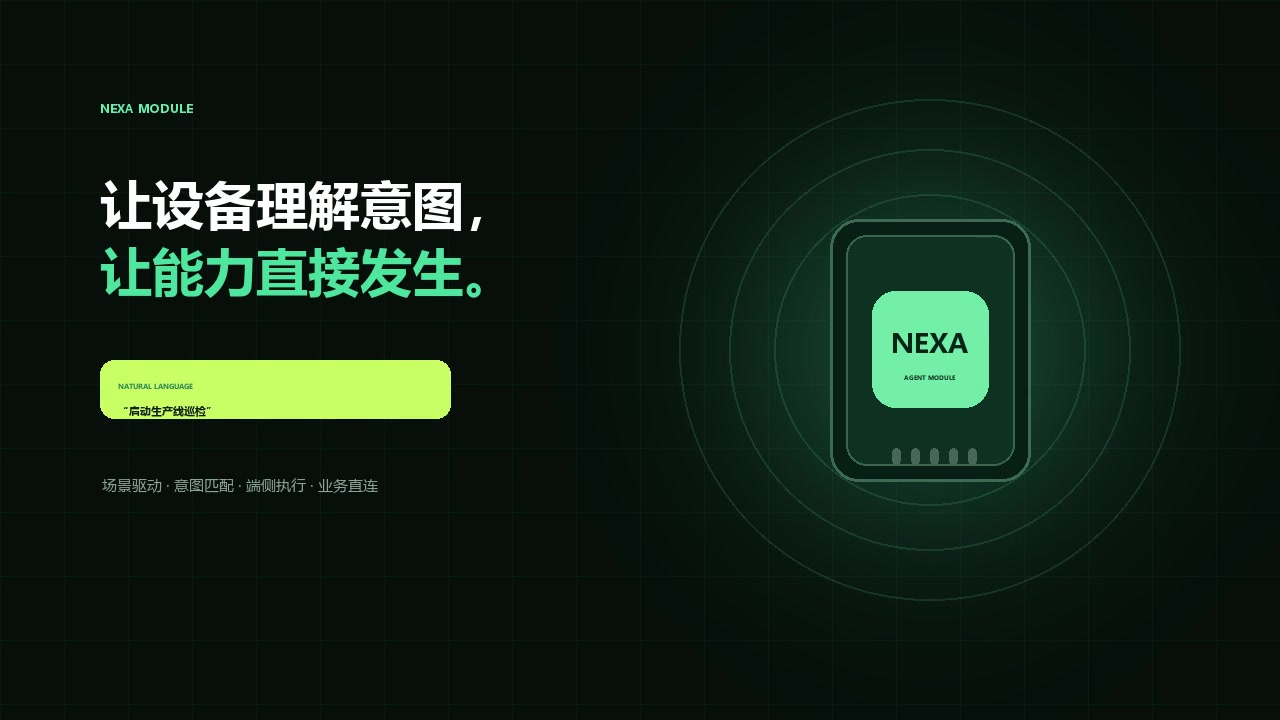
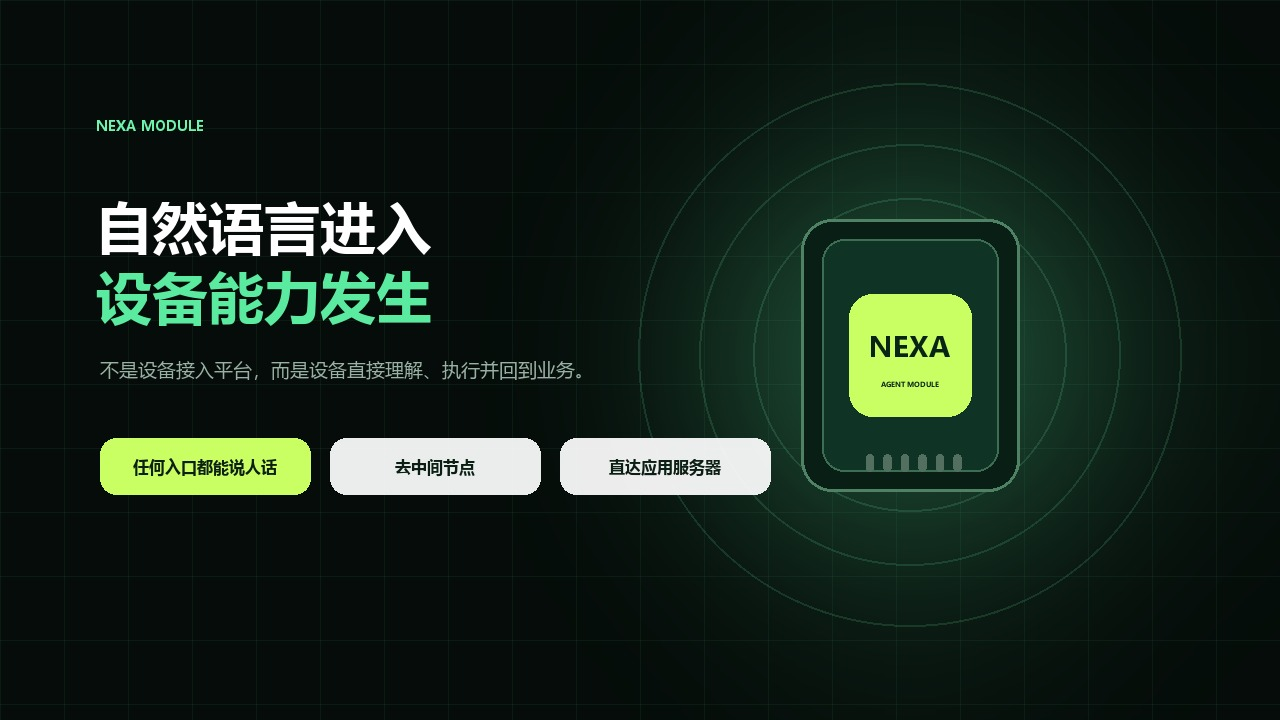
Refresh Nexa premium MG product video

Changed region(s): [[0.0625, 0.275, 0.8125, 0.7028], [0.0625, 0.2444, 0.375, 0.4583], [0.0625, 0.1222, 0.1562, 0.1833]]

diff --git a/index.html b/index.html
@@ -8,7 +8,7 @@
 <section class="section demo-wrap" id="demo"><div><div class="kicker">NEXA INTENT FLOW</div><h2>输入一句话，看看设备如何理解并行动。</h2><p class="lead">不管指令来自哪里，设备都走同一条体验链路：接收自然语言、由 Nexa Module 完成意图理解与动作判断，再把结果直接反馈给业务应用。</p><div class="suggestions"><button data-scenario="fan" data-source="远程应用服务器" data-prompt="把 2 号风机打开 15 分钟">远程控制</button><button data-scenario="serial" data-source="UART 串口" data-prompt="GPIO 12 拉高 10 秒后恢复">串口输入</button><button data-scenario="voice" data-source="语音转文字" data-prompt="温度超过 30 度就开启喷淋">语音场景</button></div></div><div class="console"><div class="console-bar"><span>● ● ●</span><b>NEXA / INTENT TRACE</b><em>TCP CONNECTED</em></div><div class="chat"><label for="prompt">自然语言输入 <em id="source">远程应用服务器</em></label><div class="prompt-row"><input id="prompt" value="把 2 号风机打开 15 分钟" maxlength="80"><button id="run">解析意图 →</button></div><div class="trace"><div class="trace-step active"><span>01</span><p><b>设备构建上下文</b><small>source: remote · skills: fan.control, timer.schedule</small></p></div><div class="trace-step"><span>02</span><p><b>模组意图理解</b><small>等待判断...</small></p></div><div class="trace-step"><span>03</span><p><b>端侧策略校验</b><small>等待执行计划...</small></p></div><div class="trace-step"><span>04</span><p><b>Skill 本地执行</b><small>等待授权...</small></p></div></div></div></div></section>
 <section class="section compare" id="compare"><div class="kicker">PARADIGM SHIFT</div><h2>从“接平台”，<br>到“设备直达业务”。</h2><p class="lead">Nexa Module 的价值不是多接一个协议，而是减少 App、平台、网关之间的层层转译。业务系统说出目标，设备自己理解任务，并把数据直接送回应用。</p><div class="compare-grid"><div class="compare-side legacy"><span>传统设备通信</span><h3>每接一个设备，增加一层翻译</h3><div class="stack"><b>业务需求</b><i>↓ 人工拆解</i><b>控制接口</b><i>↓ AT 指令</i><b>协议字段</b><i>↓ 编解码插件</i><b>IoT 平台 / 网关</b><i>↓ 设备协议</i><b>硬件动作</b></div><p>链路长、耦合高、跨型号复用困难；协议变化往往需要同步修改插件、平台与应用。</p></div><div class="compare-vs">VS</div><div class="compare-side nexa"><span>Nexa Module 通信</span><h3>自然语言直达设备能力</h3><div class="stack compact"><b>自然语言意图</b><i>↓ 模组理解</i><b>可执行建议</b><i>↓ 端侧校验</i><b>设备本地执行</b></div><p>业务表达与底层协议解耦；新增设备能力时，应用侧不必重做整条平台链路。</p></div></div><div class="compare-points"><div><b>链路更短</b><span>设备与应用直接形成业务闭环</span></div><div><b>开发更少</b><span>少做按钮、少定义字段、少写适配层</span></div><div><b>上线更快</b><span>新增能力不必重做整套平台链路</span></div><div><b>边界更清楚</b><span>模组负责理解和动作，应用拿到结果</span></div></div></section>
 <section class="section reliability" id="reliability"><div class="kicker">NEVER LOSE THE DEVICE</div><h2>设备在线、数据上报、<br>异常恢复都有闭环。</h2><p class="lead">去掉中间节点之后，设备必须自己维持在线状态、主动上报数据，并在网络异常时恢复连接。Nexa Module 把这些能力内置到模组中，客户应用拿到的是持续可用的设备节点。</p><div class="reliability-grid"><article><span>01</span><h3>设备找得到</h3><p>每台设备都有稳定身份和连接入口，应用服务器能持续识别它、管理它。</p></article><article><span>02</span><h3>状态看得见</h3><p>设备主动同步在线状态、运行状态和关键事件，减少“设备到底在不在线”的盲区。</p></article><article><span>03</span><h3>断线会恢复</h3><p>网络波动时自动重连，恢复后继续把未完成的数据和事件送回业务系统。</p></article><article><span>04</span><h3>服务可兜底</h3><p>理解能力和业务服务都可以做备用入口，避免单点异常影响整批设备。</p></article><article><span>05</span><h3>离线也能做事</h3><p>短暂离线时，设备保留安全任务执行能力；恢复在线后主动补传结果。</p></article><article><span>06</span><h3>异常可处理</h3><p>设备失联、恢复、异常状态都能被记录和通知，方便运营人员快速定位。</p></article></div><div class="recovery-flow"><b>网络异常</b><i>→</i><b>本地继续执行安全任务</b><i>→</i><b>切换链路 / 自动重连</b><i>→</i><b>恢复会话并补传</b><i>→</i><b>应用更新在线状态</b></div></section>
-<section class="section film" id="film"><div class="film-heading"><div><div class="kicker">NEXA PREMIUM MG FILM · 48 SEC</div><h2>从一句自然语言，<br>到一次可信执行。</h2></div><p>用一段短视频展示从自然语言输入，到设备自主判断、执行动作、主动上报应用服务器的完整效果。</p></div><div class="film-frame"><video controls preload="metadata" poster="nexa-video-poster.jpg" playsinline><source src="nexa-module-intro.mp4?v=5" type="video/mp4">你的浏览器不支持 HTML5 视频播放。</video><div class="film-meta"><span>1280 × 720</span><span>H.264 · 中文旁白 · 原创音乐</span><span>高级场景与数据流 MG 动画</span><a href="nexa-module-intro.mp4" download>下载视频 ↓</a></div></div></section>
+<section class="section film" id="film"><div class="film-heading"><div><div class="kicker">NEXA PREMIUM MG FILM · 42 SEC</div><h2>从一句自然语言，<br>到一次可信执行。</h2></div><p>用一段短视频展示从自然语言输入，到设备自主判断、执行动作、主动上报应用服务器的完整效果。</p></div><div class="film-frame"><video controls preload="metadata" poster="nexa-video-poster.jpg" playsinline><source src="nexa-module-intro.mp4?v=6" type="video/mp4">你的浏览器不支持 HTML5 视频播放。</video><div class="film-meta"><span>1280 × 720</span><span>H.264 · 高级 MG 动画</span><span>自然语言 · 模组能力 · 业务直连</span><a href="nexa-module-intro.mp4" download>下载视频 ↓</a></div></div></section>
 
 <section class="section protocol" id="protocol"><div class="kicker">NEXA LINK PROTOCOL</div><h2>去掉中间平台之后，<br>设备仍然稳定、安全、可恢复。</h2><div class="protocol-grid"><article><b>01</b><h3>可靠分帧</h3><p>消息有边界、有确认，适合长时间在线的设备连接。</p></article><article><b>02</b><h3>双向身份</h3><p>设备和服务器互相确认身份，避免陌生来源直接控制设备。</p></article><article><b>03</b><h3>幂等与防重放</h3><p>重复请求不会造成重复动作，关键操作可以追踪。</p></article><article><b>04</b><h3>离线降级</h3><p>任一服务器暂时不可达时，设备会继续安全任务，缓存事件并在恢复后补传。</p></article></div><div class="code-card"><div><span>INTENT_RESOLVE_REQ</span><pre>{
   "request_id": "req_7F21",

diff --git a/render_video.py b/render_video.py
@@ -1,133 +1,195 @@
-from PIL import Image,ImageDraw,ImageFont,ImageFilter
-import math,subprocess,imageio_ffmpeg,os,random
-W,H,FPS,DURATION=1280,720,24,48
-FB="C:/Windows/Fonts/msyhbd.ttc";FR="C:/Windows/Fonts/msyh.ttc"
-def F(n,b=False):return ImageFont.truetype(FB if b else FR,n)
-def tx(d,p,s,n,c,b=False,a=None):d.text(p,s,font=F(n,b),fill=c,anchor=a)
-def box(d,b,r,c,o=None,w=1):d.rounded_rectangle(b,r,fill=c,outline=o,width=w)
-def E(x):x=max(0,min(1,x));return x*x*(3-2*x)
-def bg(dark=False):
- im=Image.new("RGB",(W,H),(6,14,10) if dark else (243,246,242));d=ImageDraw.Draw(im,"RGBA")
- col=(89,235,164,13) if dark else (20,70,45,10)
- for x in range(0,W,64):d.line((x,0,x,H),fill=col)
- for y in range(0,H,64):d.line((0,y,W,y),fill=col)
- return im,d
-def glow(im,x,y,r,c=(72,229,157)):
- lay=Image.new("RGBA",(W,H));q=ImageDraw.Draw(lay);q.ellipse((x-r,y-r,x+r,y+r),fill=(*c,85));lay=lay.filter(ImageFilter.GaussianBlur(r//2));im.paste(lay,(0,0),lay)
-def chip(d,x,y,s=1,rot=0):
- box(d,(x-105*s,y-138*s,x+105*s,y+138*s),30*s,(8,31,21,255),(60,106,82,255),3)
- box(d,(x-88*s,y-121*s,x+88*s,y+121*s),22*s,(14,49,34,255),(55,103,78,255),2)
- box(d,(x-61*s,y-62*s,x+61*s,y+60*s),25*s,(116,239,169,255))
- tx(d,(x,y-8*s),"NEXA",int(29*s),(7,36,23),True,"mm");tx(d,(x,y+28*s),"AGENT MODULE",int(7*s),(7,36,23),True,"mm")
- for i in range(5):box(d,(x-40*s+i*20*s,y+103*s,x-32*s+i*20*s,y+120*s),4*s,(73,103,87,255))
-def bubble(d,x,y,w,s,accent=False):
- box(d,(x,y,x+w,y+58),14,(202,255,101,255) if accent else (255,255,255,245),None)
- tx(d,(x+18,y+21),"NATURAL LANGUAGE",7,(34,129,87),True);tx(d,(x+18,y+43),s,11,(16,28,21),True)
-def factory(d,x,y,s=1):
- d.rectangle((x,y+80*s,x+220*s,y+190*s),fill=(17,54,39));d.polygon([(x,y+80*s),(x+65*s,y+40*s),(x+65*s,y+80*s),(x+130*s,y+40*s),(x+130*s,y+80*s)],fill=(26,88,61))
- d.rectangle((x+175*s,y,x+205*s,y+80*s),fill=(32,117,78))
- for i in range(4):d.rectangle((x+22*s+i*47*s,y+120*s,x+48*s+i*47*s,y+150*s),fill=(112,239,170))
-def building(d,x,y,s=1):
- box(d,(x,y,x+180*s,y+210*s),10,(18,58,42))
- for r in range(4):
-  for c in range(3):box(d,(x+24*s+c*48*s,y+25*s+r*42*s,x+50*s+c*48*s,y+48*s+r*42*s),3,(202,255,101) if (r+c)%3==0 else (68,130,99))
-def greenhouse(d,x,y,s=1):
- d.arc((x,y,x+220*s,y+190*s),180,360,fill=(37,139,94),width=max(2,int(5*s)));d.line((x,y+95*s,x+220*s,y+95*s),fill=(37,139,94),width=4)
- for i in range(4):
-  xx=x+35*s+i*48*s;d.line((xx,y+165*s,xx,y+115*s),fill=(26,112,72),width=4);d.ellipse((xx-15*s,y+120*s,xx+2*s,y+138*s),fill=(75,224,150))
-def truck(d,x,y,s=1):
- box(d,(x,y+60*s,x+150*s,y+145*s),12,(15,55,39));box(d,(x+150*s,y+85*s,x+225*s,y+145*s),10,(35,137,91))
- for xx in (x+48*s,x+180*s):d.ellipse((xx-18*s,y+128*s,xx+18*s,y+164*s),fill=(7,20,13));d.ellipse((xx-8*s,y+138*s,xx+8*s,y+154*s),fill=(101,239,171))
-def server(d,x,y,s=1):
- box(d,(x,y,x+210*s,y+260*s),22,(11,43,30),(49,102,76),2)
- for i in range(4):box(d,(x+28*s,y+56*s+i*42*s,x+182*s,y+80*s+i*42*s),7,(31,77,56));d.ellipse((x+150*s,y+64*s+i*42*s,x+160*s,y+74*s+i*42*s),fill=(98,240,171))
-def packets(d,a,b,t,count=5,c=(91,239,168)):
- for i in range(count):
-  u=(t*.55+i/count)%1;x=a[0]+(b[0]-a[0])*u;y=a[1]+(b[1]-a[1])*u;d.ellipse((x-6,y-6,x+6,y+6),fill=(*c,255))
-def fade(d,t,a,b):
- alpha=int(255*max(1-E((t-a)/.35),1-E((b-t)/.35)))
- if alpha>0:d.rectangle((0,0,W,H),fill=(5,13,9,alpha))
-ff=imageio_ffmpeg.get_ffmpeg_exe();out="nexa-module-intro.mp4"
-p=subprocess.Popen([ff,"-y","-f","rawvideo","-pix_fmt","rgb24","-s",f"{W}x{H}","-r",str(FPS),"-i","-","-an","-c:v","libx264","-crf","18","-preset","medium","-pix_fmt","yuv420p","-movflags","+faststart",out],stdin=subprocess.PIPE)
-scenes=[(0,6),(6,13),(13,19),(19,26),(26,33),(33,39),(39,44),(44,48)]
-for n in range(FPS*DURATION):
- t=n/FPS
- if t<6:
-  im,d=bg(True);u=E(t/5);glow(im,930,350,250);d=ImageDraw.Draw(im,"RGBA")
-  # animated assembly rings
-  for k in range(3):
-   r=150+k*55+10*math.sin(t*1.4+k);d.ellipse((930-r,350-r,930+r,350+r),outline=(95,240,170,35),width=2)
-  chip(d,930,350,.95);bubble(d,100,360,350,"“启动生产线巡检”",True)
-  tx(d,(100,100),"NEXA MODULE",12,(104,241,173),True);tx(d,(100,168),"让设备理解意图，",52,(255,255,255),True);tx(d,(100,235),"让能力直接发生。",52,(79,231,158),True)
-  tx(d,(102,475),"场景驱动 · 意图匹配 · 端侧执行 · 业务直连",15,(142,163,151))
- elif t<13:
-  im,d=bg(False);u=(t-6)/7
-  tx(d,(640,58),"自然语言进入真实设备场景",36,(12,22,16),True,"ma")
-  items=[(factory,"工业控制","启动产线巡检"),(building,"楼宇园区","关闭会议室空调"),(greenhouse,"智慧农业","湿度低时自动灌溉"),(truck,"移动终端","上报位置和设备状态")]
-  for i,(fn,title,line) in enumerate(items):
-   x=40+i*310;y=170+12*math.sin(u*5+i)
-   box(d,(x,y,x+285,y+410),22,(255,255,255),(211,221,214),2);fn(d,x+35,y+35,.85)
-   tx(d,(x+25,y+270),title,20,(12,22,16),True);bubble(d,x+20,y+310,245,line,i==0)
-   # active pulse
-   if int(u*8)%4==i:d.ellipse((x+235,y+24,x+263,y+52),fill=(81,233,160,255))
- elif t<19:
-  im,d=bg(True);u=(t-13)/6;glow(im,640,360,180);d=ImageDraw.Draw(im,"RGBA")
-  chip(d,640,365,.72)
-  inputs=[("本地文字",(110,170)),("UART 串口",(110,500)),("语音转写",(980,170)),("远程控制",(980,500))]
-  for label,(x,y) in inputs:
-   box(d,(x,y,x+190,y+72),15,(245,250,247,245));tx(d,(x+95,y+28),label,14,(13,32,21),True,"mm");tx(d,(x+95,y+52),"NATURAL INPUT",7,(36,139,93),True,"mm")
-   target=(535,365) if x<640 else (745,365);d.line((x+190 if x<640 else x,y+36,*target),fill=(75,222,151,90),width=2);packets(d,(x+190 if x<640 else x,y+36),target,u+i*.11,3)
-  tx(d,(640,70),"多源输入，在设备端统一",36,(255,255,255),True,"ma");tx(d,(640,650),"Natural Language Object",12,(97,235,166),True,"ma")
- elif t<26:
-  im,d=bg(False);u=(t-19)/7;tx(d,(640,55),"设备上下文，通过加密链路流向 AI",36,(12,22,16),True,"ma")
-  chip(d,210,360,.62);server(d,975,235,.9)
-  tx(d,(1070,180),"AI INTENT SERVER",10,(35,136,91),True,"mm")
-  d.line((350,360,940,360),fill=(49,150,101),width=3);packets(d,(350,360),(940,360),u,7)
-  # orbiting data tokens
-  labels=[("INPUT","自然语言"),("SKILLS","能力清单"),("STATE","设备状态"),("IPv6","固定地址")]
-  for i,(a,b) in enumerate(labels):
-   x=420+i*125;y=235+18*math.sin(t*2+i);box(d,(x,y,x+105,y+72),12,(255,255,255),(202,216,207),2);tx(d,(x+52,y+25),a,8,(38,142,95),True,"mm");tx(d,(x+52,y+49),b,10,(31,45,36),True,"mm")
-  tx(d,(645,410),"TCP + TLS",12,(31,122,81),True,"ma")
- elif t<33:
-  im,d=bg(True);u=(t-26)/7;tx(d,(640,52),"AI 匹配 Skill，设备完成可信执行",36,(255,255,255),True,"ma")
-  # cloud brain nodes
-  box(d,(80,180,370,540),22,(16,50,37),(45,98,72),2);tx(d,(225,225),"AI 意图匹配",20,(107,241,174),True,"mm")
-  nodes=[("识别目标",150,300),("抽取参数",280,300),("匹配 Skill",215,400)]
-  for label,x,y in nodes:d.ellipse((x-42,y-42,x+42,y+42),fill=(34,104,72));tx(d,(x,y),label,10,(255,255,255),True,"mm")
-  d.line((150,300,215,400),fill=(99,237,170),width=2);d.line((280,300,215,400),fill=(99,237,170),width=2)
-  # plan flying
-  x=410+220*((math.sin(u*math.pi)+1)/2);box(d,(x,325,x+125,385),12,(202,255,101));tx(d,(x+62,355),"SKILL PLAN",10,(10,42,27),True,"mm")
-  chip(d,735,355,.55)
-  # fan execution
-  cx,cy=1040,355;box(d,(900,180,1190,540),22,(244,249,246),(67,111,87),2);tx(d,(1045,225),"本地执行",20,(16,38,24),True,"mm")
-  for k in range(4):
-   ang=t*5+k*math.pi/2;ex=cx+75*math.cos(ang);ey=cy+75*math.sin(ang);d.ellipse((ex-22,ey-10,ex+22,ey+10),fill=(55,187,123))
-  d.ellipse((cx-18,cy-18,cx+18,cy+18),fill=(12,55,37));tx(d,(1045,485),"fan.control · ON",11,(36,139,92),True,"mm")
- elif t<39:
-  im,d=bg(False);u=(t-33)/6;tx(d,(640,55),"结果直达应用服务器",36,(12,22,16),True,"ma")
-  chip(d,240,350,.66);server(d,985,220,.9)
-  # dual route arcs
-  d.arc((300,145,1050,565),190,350,fill=(44,157,104),width=3);packets(d,(375,350),(960,350),u,8)
-  # dashboard
-  box(d,(500,205,790,500),20,(255,255,255),(205,217,209),2);tx(d,(645,245),"EXECUTION RESULT",9,(35,138,92),True,"mm")
-  rows=[("status","completed"),("fan_2","ON"),("auto_off","900 sec"),("device","online")]
-  for i,(a,b) in enumerate(rows):tx(d,(535,310+i*45),a,10,(98,110,102));tx(d,(740,310+i*45),b,11,(27,83,54),True,"ra")
-  tx(d,(640,620),"固定 IPv6 · TCP + TLS · 不经过 IoT 业务中转节点",12,(45,132,88),True,"ma")
- elif t<44:
-  im,d=bg(True);u=(t-39)/5;tx(d,(640,55),"双产品形态，连接与恢复能力同步在线",34,(255,255,255),True,"ma")
-  for i,(name,net) in enumerate([("Nexa Module Flex","4G · Wi‑Fi · BLE"),("Nexa Module 4G","Pure 4G")]):
-   x=70+i*610;box(d,(x,155,x+540,555),24,(13,44,32),(48,98,73),2);chip(d,x+150,355,.58);tx(d,(x+285,260),name,24,(255,255,255),True);tx(d,(x+285,305),net,13,(103,238,171),True)
-   for j,label in enumerate(["IPv6","HEARTBEAT","RECONNECT"]):box(d,(x+285,y:=350+j*50,x+475,y+34),9,(28,75,53));tx(d,(x+380,y+17),label,8,(179,212,193),True,"mm")
-  # link switch pulse
-  if int(u*8)%2==0:d.ellipse((566,338,586,358),fill=(202,255,101))
- else:
-  im,d=bg(True);u=(t-44)/4;glow(im,640,330,250);d=ImageDraw.Draw(im,"RGBA")
-  tx(d,(640,105),"NEXA MODULE",13,(104,241,173),True,"ma");tx(d,(640,235),"自然语言进入，",58,(255,255,255),True,"ma");tx(d,(640,318),"设备能力发生。",58,(77,232,158),True,"ma")
-  box(d,(475,430,805,493),13,(202,255,101));tx(d,(640,461),"NATURAL LANGUAGE → ACTION",11,(8,35,23),True,"mm")
-  tx(d,(640,585),"Agent-native connectivity for every device",11,(121,145,132),False,"ma")
- # cinematic fade
- for a,b in scenes:
-  if a<=t<b:fade(d,t,a,b);break
- p.stdin.write(im.tobytes())
-p.stdin.close();p.wait();print(os.path.abspath(out),os.path.getsize(out))
+from PIL import Image, ImageDraw, ImageFont, ImageFilter
+import math, os, subprocess, imageio_ffmpeg
 
+W, H, FPS, DURATION = 1280, 720, 30, 42
+FB, FR = "C:/Windows/Fonts/msyhbd.ttc", "C:/Windows/Fonts/msyh.ttc"
+OUT, POSTER = "nexa-module-intro.mp4", "nexa-video-poster.jpg"
+
+
+def font(size, bold=False):
+    return ImageFont.truetype(FB if bold else FR, size)
+
+
+def txt(d, xy, s, n, c, bold=False, a=None):
+    d.text(xy, s, font=font(n, bold), fill=c, anchor=a)
+
+
+def box(d, b, r, fill, outline=None, w=1):
+    d.rounded_rectangle(b, radius=r, fill=fill, outline=outline, width=w)
+
+
+def ease(x):
+    x = max(0, min(1, x))
+    return x * x * (3 - 2 * x)
+
+
+def canvas(dark=True):
+    im = Image.new("RGB", (W, H), (5, 12, 9) if dark else (245, 248, 244))
+    d = ImageDraw.Draw(im, "RGBA")
+    grid = (112, 246, 178, 15) if dark else (22, 90, 58, 12)
+    for x in range(0, W, 64):
+        d.line((x, 0, x, H), fill=grid)
+    for y in range(0, H, 64):
+        d.line((0, y, W, y), fill=grid)
+    return im, d
+
+
+def glow(im, x, y, r, col=(91, 235, 160), a=95):
+    lay = Image.new("RGBA", (W, H))
+    q = ImageDraw.Draw(lay)
+    q.ellipse((x - r, y - r, x + r, y + r), fill=(*col, a))
+    lay = lay.filter(ImageFilter.GaussianBlur(r // 2))
+    im.paste(lay, (0, 0), lay)
+
+
+def chip(d, x, y, s=1):
+    box(d, (x - 118*s, y - 148*s, x + 118*s, y + 148*s), 34*s, (9, 31, 22, 255), (79, 130, 100, 255), 3)
+    box(d, (x - 96*s, y - 126*s, x + 96*s, y + 126*s), 24*s, (15, 52, 37, 255), (61, 109, 82, 255), 2)
+    box(d, (x - 66*s, y - 66*s, x + 66*s, y + 66*s), 26*s, (202, 255, 99, 255))
+    txt(d, (x, y - 10*s), "NEXA", int(31*s), (8, 36, 23), True, "mm")
+    txt(d, (x, y + 31*s), "AGENT MODULE", int(8*s), (8, 36, 23), True, "mm")
+    for i in range(6):
+        px = x - 48*s + i * 19*s
+        box(d, (px, y + 108*s, px + 8*s, y + 126*s), 4*s, (82, 111, 95, 255))
+
+
+def pill(d, x, y, label, active=False):
+    fill = (202, 255, 99, 255) if active else (255, 255, 255, 235)
+    box(d, (x, y, x + 210, y + 56), 16, fill)
+    txt(d, (x + 105, y + 29), label, 16, (12, 31, 20), True, "mm")
+
+
+def card(d, x, y, w, h, title, body, dark=False, accent=False):
+    fill = (14, 45, 33, 245) if dark else (255, 255, 255, 245)
+    line = (82, 142, 106, 255) if dark else (204, 218, 208, 255)
+    if accent:
+        fill = line = (202, 255, 99, 255)
+    box(d, (x, y, x + w, y + h), 22, fill, line, 2)
+    txt(d, (x + 26, y + 42), title, 22, (10, 33, 20) if accent or not dark else (240, 255, 247), True)
+    txt(d, (x + 26, y + 84), body, 15, (72, 84, 75) if accent or not dark else (158, 184, 169))
+
+
+def packets(d, a, b, t, n=6, col=(98, 240, 171)):
+    for i in range(n):
+        u = (t * .55 + i / n) % 1
+        x = a[0] + (b[0] - a[0]) * u
+        y = a[1] + (b[1] - a[1]) * u
+        d.ellipse((x - 6, y - 6, x + 6, y + 6), fill=(*col, 245))
+
+
+def fade(d, t, a, b):
+    alpha = int(255 * max(1 - ease((t - a) / .45), 1 - ease((b - t) / .45)))
+    if alpha:
+        d.rectangle((0, 0, W, H), fill=(5, 12, 9, alpha))
+
+
+def intro(t):
+    im, d = canvas(True)
+    glow(im, 910, 355, 280)
+    d = ImageDraw.Draw(im, "RGBA")
+    for i in range(3):
+        r = 155 + i * 62 + 8 * math.sin(t * 1.5 + i)
+        d.ellipse((910-r, 355-r, 910+r, 355+r), outline=(112, 246, 178, 36), width=2)
+    chip(d, 910, 355, .92)
+    txt(d, (96, 116), "NEXA MODULE", 14, (110, 244, 174), True)
+    txt(d, (96, 188), "自然语言进入", 56, (255, 255, 255), True)
+    txt(d, (96, 258), "设备能力发生", 56, (91, 235, 160), True)
+    txt(d, (100, 356), "不是设备接入平台，而是设备直接理解、执行并回到业务。", 19, (153, 177, 164))
+    pill(d, 100, 438, "任何入口都能说人话", True)
+    pill(d, 330, 438, "去中间节点")
+    pill(d, 560, 438, "直达应用服务器")
+    return im, d
+
+
+def inputs(t):
+    im, d = canvas(False)
+    txt(d, (640, 62), "所有入口，都变成自然语言入口", 38, (12, 24, 17), True, "ma")
+    chip(d, 640, 380, .62)
+    data = [("串口文本", 110, 165), ("远程控制", 110, 500), ("语音转写", 970, 165), ("本地界面", 970, 500)]
+    for i, (lab, x, y) in enumerate(data):
+        active = int(t * 2.2) % 4 == i
+        pill(d, x, y, lab, active)
+        sx, sy = (x + 210 if x < 640 else x), y + 28
+        ex, ey = (548 if x < 640 else 732), 380
+        d.line((sx, sy, ex, ey), fill=(45, 157, 104, 110), width=2)
+        packets(d, (sx, sy), (ex, ey), t + i * .13, 3)
+    txt(d, (640, 640), "Nexa Module 统一接收、理解任务边界", 18, (46, 119, 78), True, "ma")
+    return im, d
+
+
+def module(t):
+    im, d = canvas(True)
+    glow(im, 640, 360, 230)
+    d = ImageDraw.Draw(im, "RGBA")
+    txt(d, (640, 58), "AI 意图理解，是 Module 的内置能力", 38, (255, 255, 255), True, "ma")
+    chip(d, 640, 360, .72)
+    nodes = [("理解输入", -260, -90), ("判断任务", 240, -90), ("调度能力", -250, 130), ("本地执行", 250, 130)]
+    for i, (lab, dx, dy) in enumerate(nodes):
+        x, y = 640 + dx + 6*math.sin(t*2+i), 360 + dy + 6*math.cos(t*2+i)
+        card(d, x-88, y-36, 176, 72, lab, "", accent=(i == int(t*1.6) % 4))
+        d.line((x, y, 640 + (85 if dx < 0 else -85), 360 + (40 if dy < 0 else -40)), fill=(102, 235, 168, 80), width=2)
+    txt(d, (640, 638), "用户看到的是：设备会听懂、会判断、会行动", 18, (153, 177, 164), True, "ma")
+    return im, d
+
+
+def direct(t):
+    im, d = canvas(False)
+    txt(d, (640, 58), "设备直接连接业务终点", 38, (12, 24, 17), True, "ma")
+    card(d, 80, 230, 310, 260, "Nexa Module", "理解自然语言\n执行设备能力\n主动上报数据", accent=True)
+    chip(d, 235, 372, .38)
+    card(d, 890, 230, 310, 260, "应用服务器", "接收状态 / 事件\n展示业务结果\n下发自然语言任务", dark=True)
+    d.line((410, 360, 870, 360), fill=(42, 150, 101), width=4)
+    packets(d, (410, 360), (870, 360), t, 9)
+    for i, lab in enumerate(["状态", "事件", "业务数据"]):
+        pill(d, 495 + i*125, 295 + 18*math.sin(t*2+i), lab, i == int(t*2) % 3)
+    txt(d, (640, 620), "数据不被困在中间平台里，直接回到客户应用。", 18, (45, 119, 78), True, "ma")
+    return im, d
+
+
+def shift(t):
+    im, d = canvas(True)
+    txt(d, (640, 60), "从接平台，到设备直达业务", 38, (255, 255, 255), True, "ma")
+    for i, lab in enumerate(["业务需求", "控制接口", "IoT 平台", "设备协议", "硬件动作"]):
+        y = 160 + i * 78
+        card(d, 95, y, 270, 52, lab, "", dark=True)
+        if i < 4:
+            txt(d, (230, y + 66), "↓", 18, (86, 120, 101), True, "mm")
+    card(d, 475, 230, 330, 260, "Nexa Module", "自然语言输入\n模组理解与执行\n数据直达应用", accent=True)
+    card(d, 915, 260, 250, 190, "业务应用", "拿到结果\n看到状态\n形成闭环", dark=True)
+    d.line((805, 360, 915, 360), fill=(202, 255, 99), width=4)
+    packets(d, (805, 360), (915, 360), t, 3, (202, 255, 99))
+    return im, d
+
+
+def final(t):
+    im, d = canvas(True)
+    glow(im, 640, 335, 300, a=120)
+    d = ImageDraw.Draw(im, "RGBA")
+    chip(d, 640, 250, .58)
+    txt(d, (640, 430), "让设备听懂人话", 54, (255, 255, 255), True, "ma")
+    txt(d, (640, 500), "并直接连到你的业务", 54, (91, 235, 160), True, "ma")
+    txt(d, (640, 610), "Natural Language In · Module Acts · Data Direct To App", 14, (153, 177, 164), True, "ma")
+    return im, d
+
+
+SCENES = [(0, 6, intro), (6, 13, inputs), (13, 20, module), (20, 28, direct), (28, 36, shift), (36, 42, final)]
+ff = imageio_ffmpeg.get_ffmpeg_exe()
+cmd = [ff, "-y", "-f", "rawvideo", "-pix_fmt", "rgb24", "-s", f"{W}x{H}", "-r", str(FPS), "-i", "-", "-an", "-c:v", "libx264", "-crf", "18", "-preset", "medium", "-pix_fmt", "yuv420p", "-movflags", "+faststart", OUT]
+p = subprocess.Popen(cmd, stdin=subprocess.PIPE)
+poster = None
+for frame in range(FPS * DURATION):
+    t = frame / FPS
+    for a, b, fn in SCENES:
+        if a <= t < b:
+            im, d = fn(t - a)
+            fade(d, t, a, b)
+            break
+    if frame == FPS * 2:
+        poster = im.copy()
+    p.stdin.write(im.tobytes())
+p.stdin.close()
+p.wait()
+if poster:
+    poster.save(POSTER, quality=92)
+print(os.path.abspath(OUT), os.path.getsize(OUT))
+print(os.path.abspath(POSTER), os.path.getsize(POSTER))